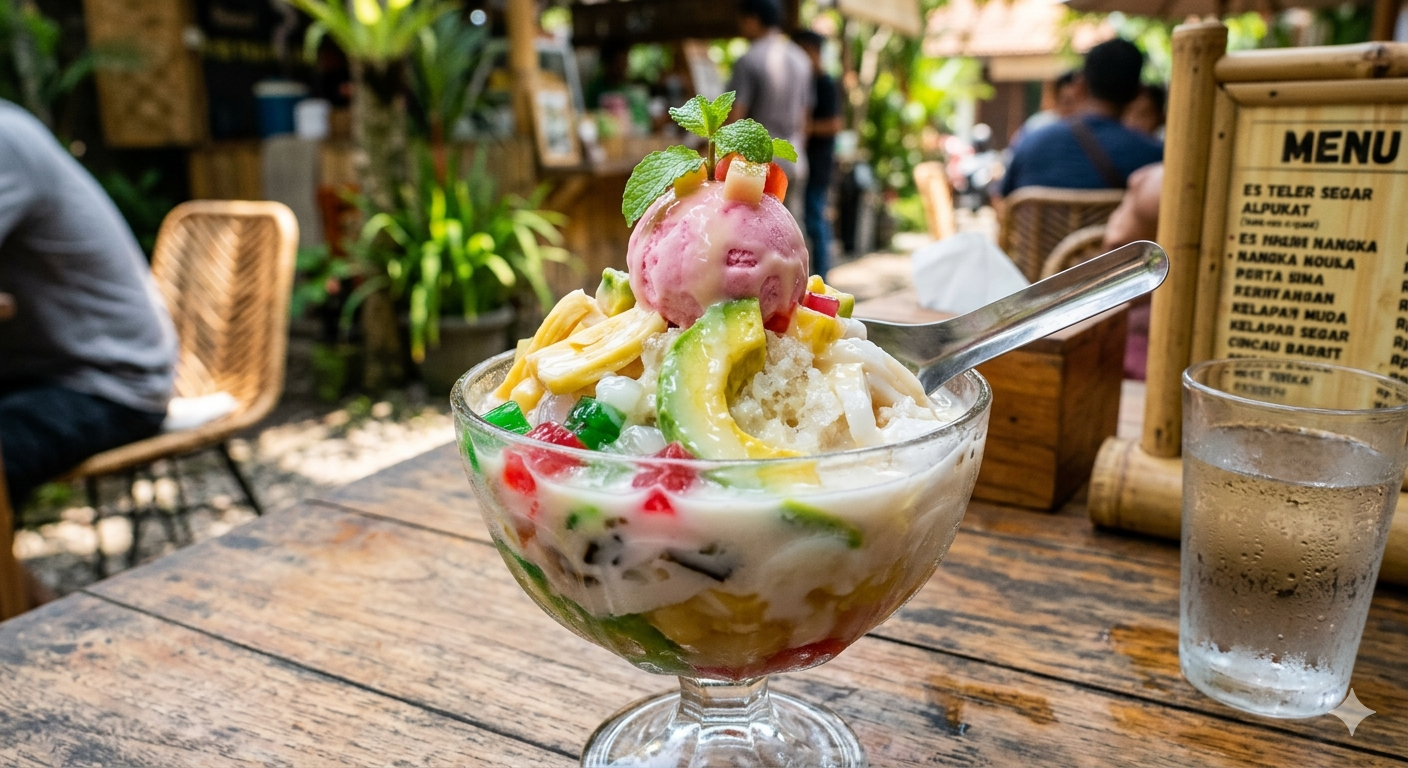
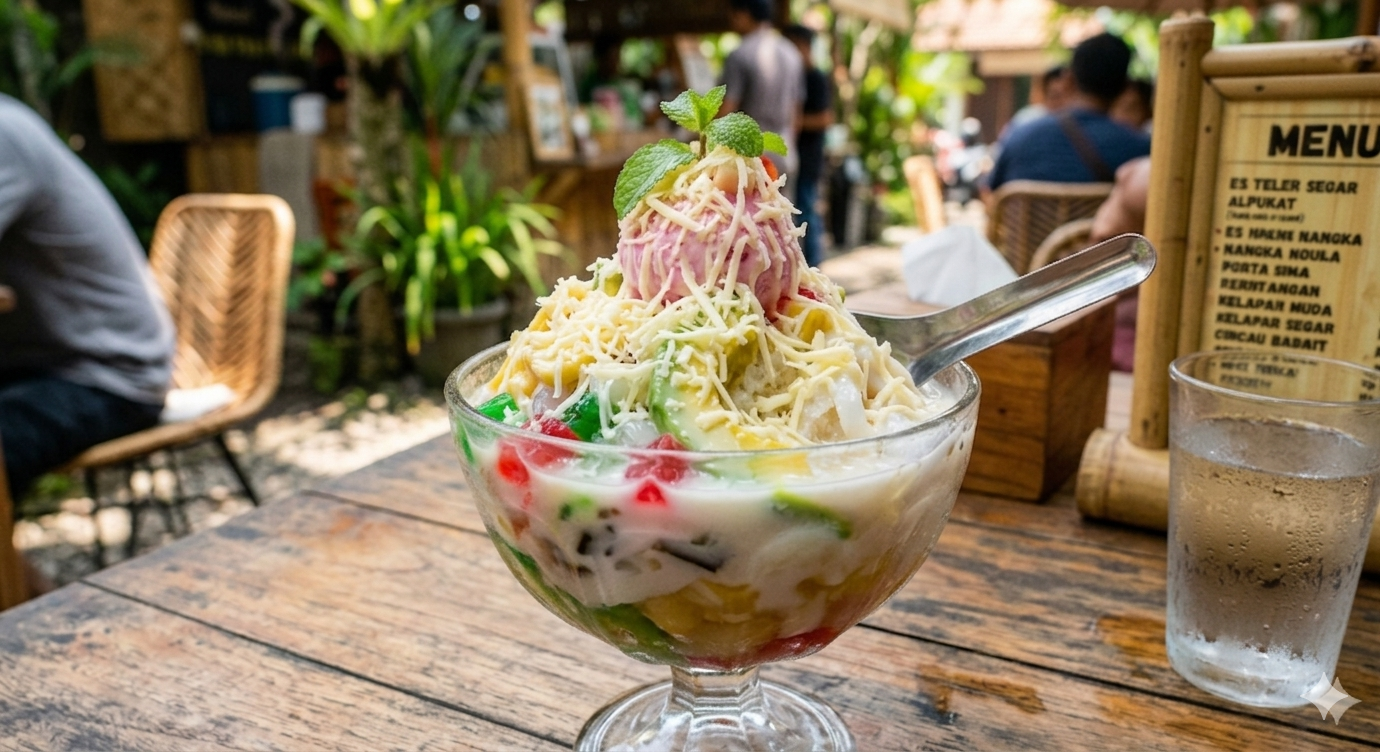
Ubah foto es teler

diff --git a/index.html b/index.html
@@ -140,7 +140,7 @@ body{
 /* GRID */
 .grid{
   display:grid;
-  grid-template-columns:repeat(auto-fit,minmax(220px,1fr));
+  grid-template-columns:repeat(3,1fr);
   gap:20px;
 }
 
@@ -195,9 +195,9 @@ body{
 .cart-panel{
   position:fixed;
   right:-350px;
-  top:0;
+  top:72px; /* sesuaikan dengan tinggi navbar */
   width:300px;
-  height:100%;
+  height:calc(100% - 72px); /* agar tinggi tetap full tanpa menimpa navbar */
   background:white;
   box-shadow:-5px 0 15px rgba(0,0,0,.15);
   transition:.3s;